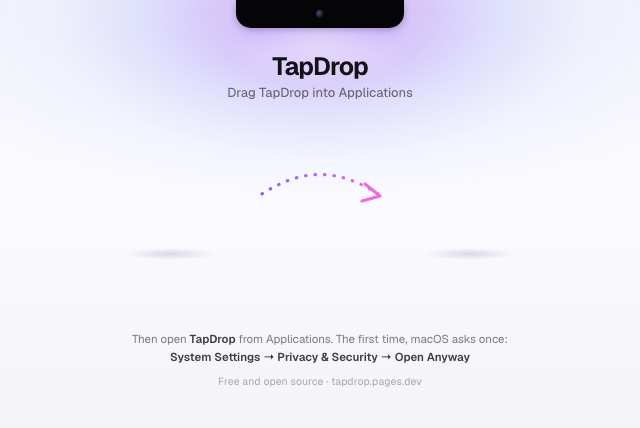
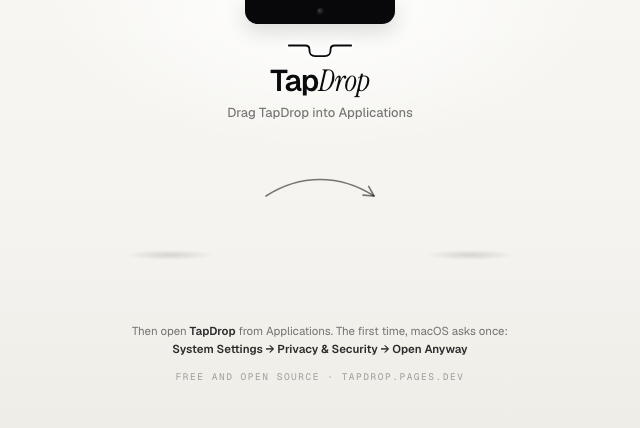
Lumen installer window; demo strings for captures
The DMG window's background is Lumen: bone, the notch with the Notchline lit
under it, the wordmark and a hairline arrow. Demo islands open
stories.design, show a Lumen Bank code, and take videos as well as photos.

diff --git a/mac/dmg/background.html b/mac/dmg/background.html
@@ -1,45 +1,50 @@
 <!doctype html><html><head><meta charset="utf-8">
 <!-- The Mac installer window's background (640 × 428; render at 1x and 2x to background.png / background@2x.png).
-     Finder draws the icons at (170, 196) and (470, 196) and their names below them in black, and may cover the
-     bottom 28 px with its path bar: nothing that matters lives there. -->
+     Lumen, light: bone, the notch at the top with the Notchline lit under it, the wordmark, and a hairline arrow.
+     Finder draws the icons at (170, 196) and (470, 196) and their names below them, and may cover the bottom 28 px
+     with its path bar: nothing that matters lives there. -->
 <style>
-@font-face { font-family: Geist; src: url(../../site/public/fonts/geist-100_900-normal.woff2) format('woff2'); font-weight: 100 900; }
+@font-face { font-family: Geist; src: url(../Resources/Fonts/Geist.ttf) format('truetype'); font-weight: 100 900; }
+@font-face { font-family: "Geist Mono"; src: url(../Resources/Fonts/GeistMono.ttf) format('truetype'); font-weight: 100 900; }
+@font-face { font-family: "Instrument Serif"; font-style: italic; src: url(../Resources/Fonts/InstrumentSerif-Italic.ttf) format('truetype'); }
 html, body { margin: 0; padding: 0; }
-body { width: 640px; height: 428px; overflow: hidden; font-family: Geist, -apple-system, sans-serif; color: #121218; position: relative;
+body { width: 640px; height: 428px; overflow: hidden; font-family: Geist, -apple-system, sans-serif; color: #0B0B0D; position: relative;
   -webkit-font-smoothing: antialiased;
-  background: linear-gradient(180deg, #f6f4fb 0%, #fbfaff 46%, #f4f3f8 100%); }
-.glow { position: absolute; left: 50%; top: -170px; width: 720px; height: 380px; transform: translateX(-50%);
-  background:
-    radial-gradient(22% 24% at 50% 50%, rgba(255,255,255,0.9), transparent 70%),
-    radial-gradient(34% 36% at 50% 48%, rgba(242,107,217,0.26), transparent 72%),
-    radial-gradient(52% 52% at 50% 50%, rgba(133,97,255,0.30), transparent 72%),
-    radial-gradient(76% 64% at 50% 52%, rgba(64,158,255,0.12), transparent 75%);
-  filter: blur(4px); }
-.notch { position: absolute; left: 50%; top: 0; width: 168px; height: 28px; transform: translateX(-50%); background: #050507;
-  border-radius: 0 0 15px 15px; box-shadow: 0 8px 28px rgba(133,97,255,0.38), 0 2px 6px rgba(0,0,0,0.25); }
-.cam { position: absolute; left: 50%; top: 10px; width: 8px; height: 8px; margin-left: -4px; border-radius: 50%; background: radial-gradient(circle at 35% 35%, #4a5078, #0b0c14 70%); }
-.title { position: absolute; top: 50px; width: 100%; text-align: center; font-size: 25px; font-weight: 680; letter-spacing: -0.035em; }
-.sub { position: absolute; top: 84px; width: 100%; text-align: center; font-size: 13px; font-weight: 450; color: rgba(18,18,24,0.58); }
+  background: linear-gradient(180deg, #F7F6F2 0%, #F4F3EF 55%, #EFEDE7 100%); }
+/* the notch's light: a white pool under it */
+.pool { position: absolute; left: 50%; top: -150px; width: 560px; height: 300px; transform: translateX(-50%); border-radius: 50%;
+  background: radial-gradient(closest-side, rgba(255,255,255,1), rgba(255,255,255,0.55) 45%, rgba(255,255,255,0)); }
+.notch { position: absolute; left: 50%; top: 0; width: 150px; height: 24px; transform: translateX(-50%); background: #08080A;
+  border-radius: 0 0 13px 13px; box-shadow: 0 6px 22px rgba(0,0,0,0.16); }
+.cam { position: absolute; left: 50%; top: 8px; width: 7px; height: 7px; margin-left: -3.5px; border-radius: 50%; background: radial-gradient(circle at 35% 35%, #3a3a40, #0b0b0e 70%); }
+.mark { position: absolute; left: 50%; top: 40px; transform: translateX(-50%); }
+.title { position: absolute; top: 66px; width: 100%; text-align: center; font-size: 30px; letter-spacing: -0.035em; line-height: 1; }
+.title .tap { font-weight: 600; }
+.title .drop { font-family: "Instrument Serif", Georgia, serif; font-style: italic; font-weight: 400; letter-spacing: -0.01em; }
+.sub { position: absolute; top: 104px; width: 100%; text-align: center; font-size: 13px; font-weight: 450; color: rgba(11,11,13,0.56); }
 /* a soft floor shadow under each icon */
-.floor { position: absolute; top: 246px; width: 120px; height: 16px; border-radius: 50%;
-  background: radial-gradient(50% 50% at 50% 50%, rgba(60,40,140,0.16), transparent 75%); }
+.floor { position: absolute; top: 248px; width: 120px; height: 14px; border-radius: 50%;
+  background: radial-gradient(50% 50% at 50% 50%, rgba(11,11,13,0.13), transparent 75%); }
 .f1 { left: 110px; } .f2 { left: 410px; }
-svg { position: absolute; left: 0; top: 0; }
-.foot { position: absolute; top: 330px; width: 100%; text-align: center; font-size: 11.5px; color: rgba(18,18,24,0.55); line-height: 1.55; }
-.foot b { color: rgba(18,18,24,0.82); font-weight: 600; }
-.brand { position: absolute; top: 374px; width: 100%; text-align: center; font-size: 10.5px; color: rgba(18,18,24,0.34); letter-spacing: 0.01em; }
+svg.arrow { position: absolute; left: 0; top: 0; }
+.foot { position: absolute; top: 322px; width: 100%; text-align: center; font-size: 11.5px; color: rgba(11,11,13,0.55); line-height: 1.6; }
+.foot b { color: rgba(11,11,13,0.86); font-weight: 600; }
+.brand { position: absolute; top: 370px; width: 100%; text-align: center; font-family: "Geist Mono", ui-monospace, monospace; font-size: 9.5px;
+  letter-spacing: 0.16em; text-transform: uppercase; color: rgba(11,11,13,0.36); }
 </style></head><body>
-<div class="glow"></div>
+<div class="pool"></div>
 <div class="notch"><div class="cam"></div></div>
-<div class="title">TapDrop</div>
+<svg class="mark" width="110" height="22" viewBox="12 32 76 24" aria-hidden="true">
+  <defs><filter id="h" x="-20%" y="-150%" width="140%" height="400%"><feGaussianBlur stdDeviation="2.4"/></filter></defs>
+  <path d="M16 38H34C37 38 38.5 39.5 38.5 42.5V43.5C38.5 47 41 49.5 44.5 49.5H55.5C59 49.5 61.5 47 61.5 43.5V42.5C61.5 39.5 63 38 66 38H84" fill="none" stroke="#fff" stroke-width="7" stroke-linecap="round" stroke-linejoin="round" filter="url(#h)"/>
+  <path d="M16 38H34C37 38 38.5 39.5 38.5 42.5V43.5C38.5 47 41 49.5 44.5 49.5H55.5C59 49.5 61.5 47 61.5 43.5V42.5C61.5 39.5 63 38 66 38H84" fill="none" stroke="#0B0B0D" stroke-width="2" stroke-linecap="round" stroke-linejoin="round"/>
+</svg>
+<div class="title"><span class="tap">Tap</span><span class="drop">Drop</span></div>
 <div class="sub">Drag TapDrop into Applications</div>
 <div class="floor f1"></div><div class="floor f2"></div>
-<svg width="640" height="428" viewBox="0 0 640 428">
-  <defs>
-    <linearGradient id="g" x1="0" x2="1"><stop offset="0" stop-color="#8561ff"/><stop offset="0.55" stop-color="#b36bf2"/><stop offset="1" stop-color="#f26bd9"/></linearGradient>
-  </defs>
-  <path d="M262 194 C 302 168, 338 168, 378 194" fill="none" stroke="url(#g)" stroke-width="3.2" stroke-linecap="round" stroke-dasharray="0.5 9"/>
-  <path d="M365 184 L 380 196 L 362 201" fill="none" stroke="#f26bd9" stroke-width="3.2" stroke-linecap="round" stroke-linejoin="round"/>
+<svg class="arrow" width="640" height="428" viewBox="0 0 640 428" aria-hidden="true">
+  <path d="M266 196 C 300 174, 340 174, 374 196" fill="none" stroke="rgba(11,11,13,0.55)" stroke-width="1.6" stroke-linecap="round"/>
+  <path d="M368.7 186.4 L 374 196 L 363 195.1" fill="none" stroke="rgba(11,11,13,0.55)" stroke-width="1.6" stroke-linecap="round" stroke-linejoin="round"/>
 </svg>
 <div class="foot">Then open <b>TapDrop</b> from Applications. The first time, macOS asks once:<br>
 <b>System Settings → Privacy &amp; Security → Open Anyway</b></div>

diff --git a/mac/Sources/TapDrop/DemoIsland.swift b/mac/Sources/TapDrop/DemoIsland.swift
@@ -51,7 +51,7 @@ extension Demo {
     @MainActor private static func stage(_ mode: String, files: [URL]) {
         let a = Activity.shared
         let hud = HUD.shared
-        let photos = files.filter { ["jpg", "jpeg", "png", "heic"].contains($0.pathExtension.lowercased()) }
+        let photos = files.filter { ["jpg", "jpeg", "png", "heic", "mp4", "mov"].contains($0.pathExtension.lowercased()) }
         let pdf = files.first { $0.pathExtension.lowercased() == "pdf" }
         let s = Store.shared
 
@@ -123,8 +123,8 @@ extension Demo {
             a.finish(title: "Screenshot from Android phone", detail: "Copied to clipboard · Downloads",
                      files: Array(photos.dropFirst(1).prefix(1)))
         case "link":
-            a.finish(title: "Opened link from Android phone", detail: "https://www.apple.com/macbook-air/",
-                     link: URL(string: "https://www.apple.com/macbook-air/"))
+            a.finish(title: "Opened link from Android phone", detail: "stories.design",
+                     link: URL(string: "https://stories.design/the-quiet-web"))
         case "text":
             a.finish(title: "Copied text from Android phone",
                      detail: "Gate B32 · boarding at 7:40. Seat 14A, window. Bags go to belt 6.")
@@ -144,12 +144,12 @@ extension Demo {
             ServiceProvider.queue(Array(photos.prefix(2)))
             keep()
         case "code":
-            a.showCode("482915", source: "HDFC Bank", peer: "Android phone")
+            a.showCode("482915", source: "Lumen Bank", peer: "Android phone")
         case "code-long":
             a.showCode("48291537", source: "Google", peer: "Android phone")
         case "code-settled":
             // after a few seconds the confirmation settles into a Copy button
-            a.showCode("482915", source: "HDFC Bank", peer: "Android phone")
+            a.showCode("482915", source: "Lumen Bank", peer: "Android phone")
         case "paired":
             a.notice(.paired, title: "Paired with Android phone", detail: "Share anything to “\(Store.computerName)” from your phone",
                      peer: "Android phone", sound: false, hideAfter: 60)

diff --git a/mac/Sources/TapDrop/App.swift b/mac/Sources/TapDrop/App.swift
@@ -259,7 +259,7 @@ enum Demo {
             a.notice(.queued, title: "Ready to send 2 items", detail: "Touch the top of your phone's screen to the notch", sound: false,
                      hideAfter: 30)
         case "otp":
-            a.showCode("482915", source: "HDFC Bank", peer: "Android phone")
+            a.showCode("482915", source: "Lumen Bank", peer: "Android phone")
         case "failed":
             a.begin(incoming: true, peer: "Android phone", title: "Receiving")
             a.fail("The connection was lost")
